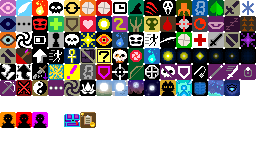
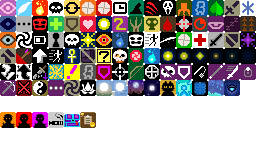
为锐刻五代的衍生buff添加贴图

Changed region(s): [[0.1875, 0.6875, 0.25, 0.8125]]

diff --git a/core/src/main/java/com/shatteredpixel/shatteredpixeldungeon/ui/BuffIndicator.java b/core/src/main/java/com/shatteredpixel/shatteredpixeldungeon/ui/BuffIndicator.java
@@ -160,6 +160,8 @@ public class BuffIndicator extends Component {
 	public static final int SCARY_RED        = 113;
 	public static final int SCARY_PINK        = 114;
 
+	public static final int SMOKING        = 115;
+
 	public static final int DK        = 116;
 
 	public static final int QUEST       = 117;

diff --git a/core/src/main/java/com/shatteredpixel/shatteredpixeldungeon/actors/buffs/Smoking.java b/core/src/main/java/com/shatteredpixel/shatteredpixeldungeon/actors/buffs/Smoking.java
@@ -42,7 +42,7 @@ public class Smoking extends Buff {
 
     @Override
     public int icon() {
-        return BuffIndicator.BARKSKIN;
+        return BuffIndicator.SMOKING;
     }
 
     @Override
